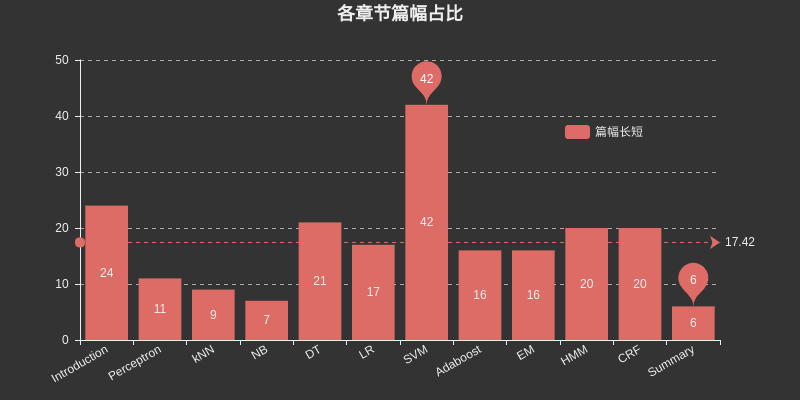
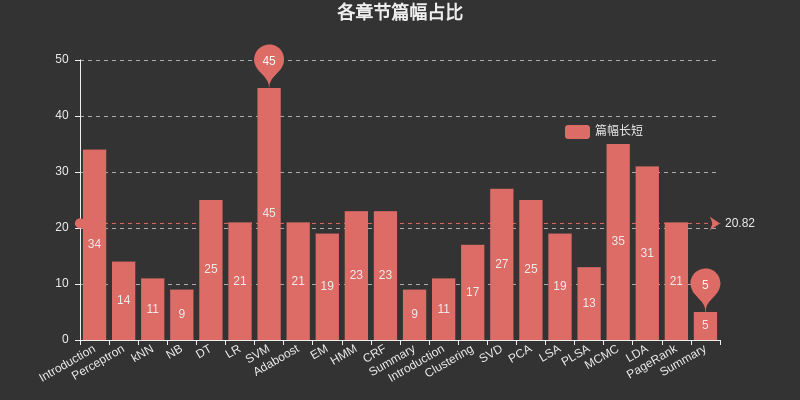
update README

diff --git a/README.md b/README.md
@@ -80,21 +80,27 @@
 
 ![各章节篇幅占比 ](assets/content_distribution.png)
 
-这里插入个图表，列举了各个章节所占篇幅，其中SVM是大部头，占了很大的篇幅，另外DT，HMM，CRF也占了相对较大的篇幅。
+这里插入个图表，列举了各个章节所占篇幅，其中SVM是监督学习里面占用篇幅最大的，MCMC是无监督里面篇幅占用最大的，另外DT，HMM，CRF，SVD，PCA，LDA，PageRank也占了相对较大的篇幅。
 
 章节之间彼此又有联系，比如NB和LR，DT和AdaBoost，Perceptron和SVM，HMM和CRF等等，如果有大章节遇到困难，可以回顾前面章节的内容，或查看具体章节的参考文献，一般都给出了对这个问题描述更详细的参考文献，可能会解释你卡住的地方。
 
 
 
-## CH01 统计学习方法概论
+## CH01 统计学习及监督学习概论
 
 [Introduction](CH01/README.md)
 
 统计学习方法三要素:
 
 - 模型
+
 - 策略
+
 - 算法
+
+  
+
+  第二版对这一章的目录结构重新梳理了，更清晰。
 
 ## CH02 感知机
 
@@ -175,15 +181,17 @@
 
 [EM](CH09/README.md)
 
-- EM算法是一种迭代算法, 用于含有隐变量的概率模型参数**极大似然估计**, 或者极大后验概率估计. (这里的极大似然估计和极大后验概率估计是**学习策略**)
+- EM算法是一种迭代算法，用于含有隐变量的概率模型参数**极大似然估计**，或者极大后验概率估计。(这里的极大似然估计和极大后验概率估计是**学习策略**)
 
-- >  如果概率模型的变量都是观测变量, 那么给定数据, 可以直接用极大似然估计法, 或贝叶斯估计法估计模型参数.
+- >  如果概率模型的变量都是观测变量，那么给定数据，可以直接用极大似然估计法，或贝叶斯估计法估计模型参数。
 
   注意书上这个描述如果不理解，参考[CH04](CH04/README.md)中朴素贝叶斯法的参数估计部分。
 
 - 这部分代码实现了BMM和GMM，值得看下
 
 - 关于EM，这个章节写的不多，EM是十大算法之一，EM和Hinton关系紧密，Hinton在2018年ICLR上发表了Capsule Network的第二篇文章《Matrix Capsules with EM Routing》
+
+- 在CH22中将EM算法归类于基础机器学习方法，不涉及具体的机器学习模型，可用于无监督学习也可用于监督学习，半监督学习。
 
 ## CH10 隐马尔可夫模型
 
@@ -202,7 +210,7 @@
 - 概率无向图模型，又称为马尔可夫随机场，是一个可以由无向图表示的**联合概率分布**。
 - 三个基本问题：概率计算问题，学习问题，预测问题
 
-## CH12 统计学习方法总结
+## CH12 监督学习方法总结
 
 [Summary](CH12/README.md)
 
@@ -219,7 +227,25 @@
 
 ## CH13 无监督学习概论
 
+无监督学习的基本问题：聚类，降维，话题分析和图分析。
 
+## CH14 聚类方法
+
+## CH15 奇异值分解
+
+## CH16 主成分分析
+
+## CH17 潜在语义分析
+
+## CH18 概率潜在语义分析
+
+## CH19 马尔可夫链蒙特卡罗法
+
+## CH20 潜在狄利克雷分配
+
+## CH21 PageRank算法
+
+## CH22 无监督学习方法总结
 
 ## 后记
 
